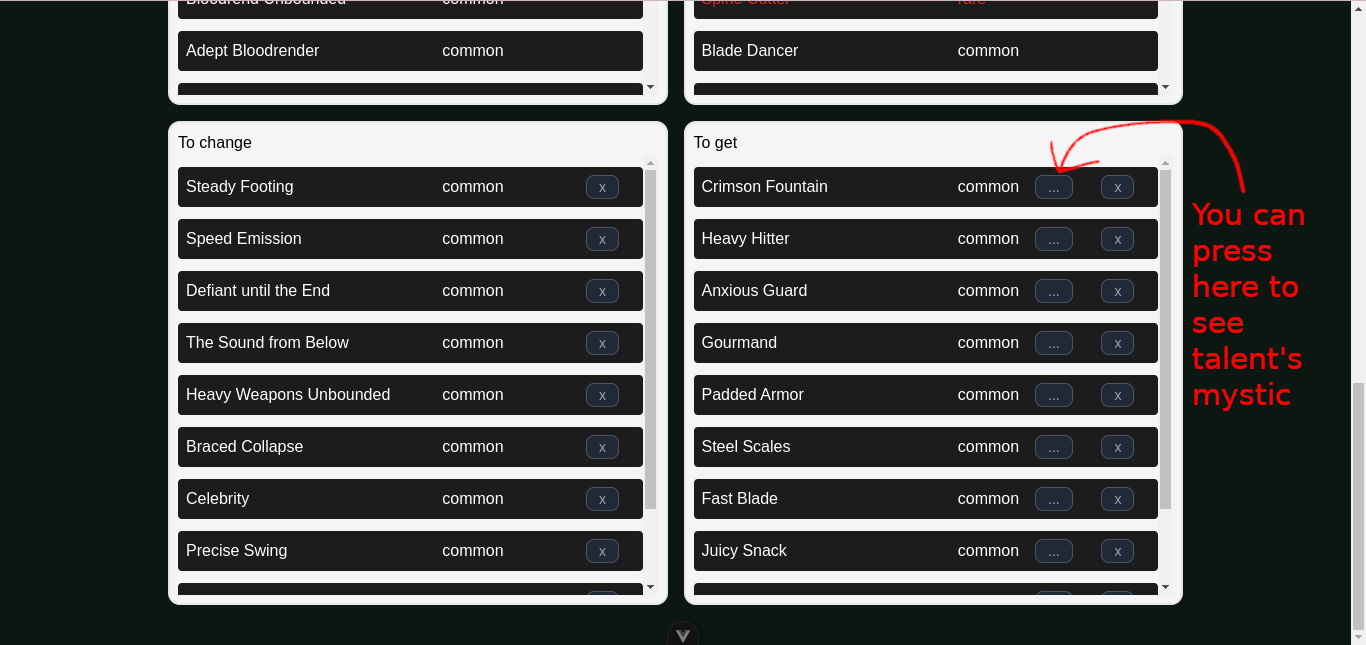
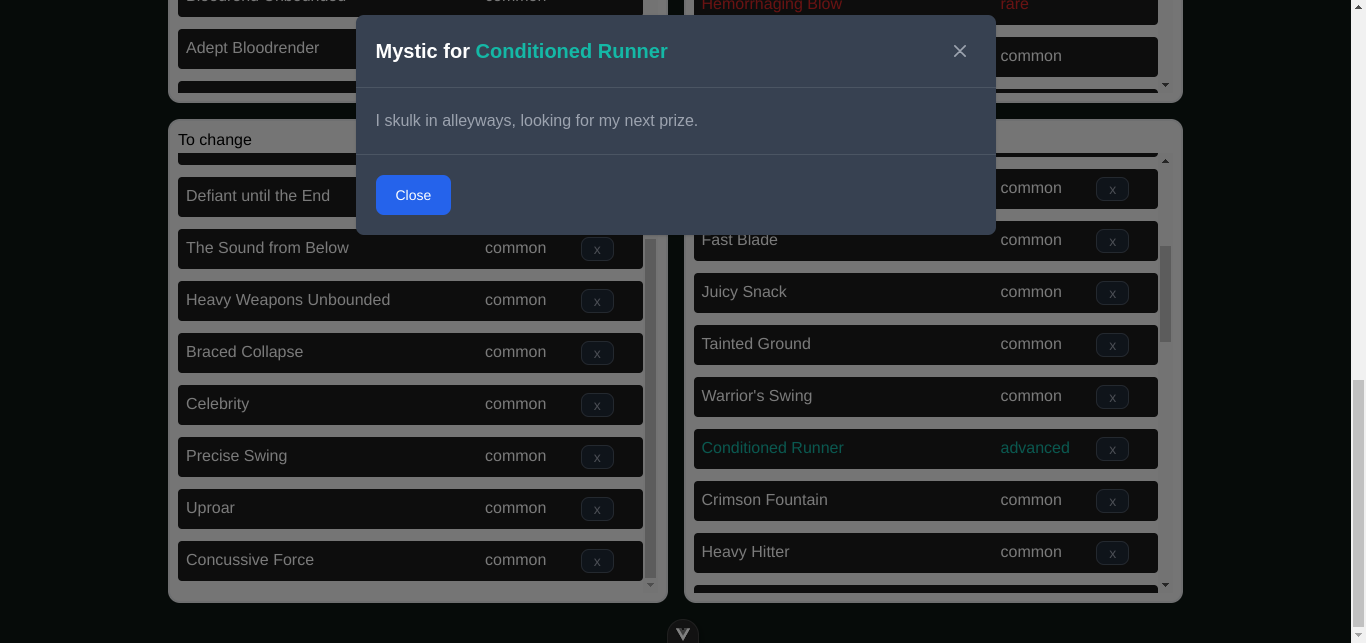
Fixed gui bugs

diff --git a/src/components/TalentCard.vue b/src/components/TalentCard.vue
@@ -35,12 +35,9 @@ const toggleModal = () => {
 </script>
 
 <template>
-  <li class="p-2 rounded bg-[#1c1c1c] my-3 grid grid-cols-7">
-    <span :class="['col-span-4', rarityColor[cardRarity]]">{{ cardTitle }}</span>
+  <li class="p-2 rounded bg-[#1c1c1c] my-3 grid grid-cols-6">
+    <div @click="toggleModal" :class="['col-span-4', 'hover:font-bold', 'cursor-pointer', rarityColor[cardRarity]]">{{ cardTitle }}</div>
     <span :class="['col-span-1', rarityColor[cardRarity]]">{{ cardRarity }}</span>
-    <button @click="toggleModal" v-if="mystic"
-      class="col-span-1 mx-auto px-3 text-sm font-medium text-gray-900 focus:outline-none bg-white rounded-lg border border-gray-200 hover:bg-gray-100 hover:text-blue-700 focus:z-10 focus:ring-4 focus:ring-gray-100 dark:focus:ring-gray-700 dark:bg-gray-800 dark:text-gray-400 dark:border-gray-600 dark:hover:text-white dark:hover:bg-gray-700">...</button>
-    <span v-else class="col-span-1"></span>
     <slot class="col-span-1"></slot>
   </li>
   <Teleport to="#modal">
@@ -52,7 +49,7 @@ const toggleModal = () => {
             <!-- Modal header -->
             <div class="flex items-center justify-between p-4 md:p-5 border-b rounded-t dark:border-gray-600">
                 <h3 class="text-xl font-semibold text-gray-900 dark:text-white">
-                    Mystic
+                    Mystic for <span :class="rarityColor[cardRarity]">{{ cardTitle }}</span>
                 </h3>
                 <button @click="toggleModal" type="button" class="text-gray-400 bg-transparent hover:bg-gray-200 hover:text-gray-900 rounded-lg text-sm w-8 h-8 ms-auto inline-flex justify-center items-center dark:hover:bg-gray-600 dark:hover:text-white" data-modal-hide="static-modal">
                     <svg class="w-3 h-3" aria-hidden="true" xmlns="http://www.w3.org/2000/svg" fill="none" viewBox="0 0 14 14">
@@ -73,6 +70,5 @@ const toggleModal = () => {
         </div>
     </div>
     </div>
-
   </Teleport>
 </template>

diff --git a/src/views/MinMaxView.vue b/src/views/MinMaxView.vue
@@ -51,7 +51,7 @@
 
     }
     catch (err) {
-      toast.info('failed to load data')
+      toast.error('failed to load data')
     }
   })
 

diff --git a/README.md b/README.md
@@ -22,11 +22,16 @@ Your talents from your build and character is shown in the first row <br />
 Your talents you can change and get is shown in the second row <br />
 ![to get and to change talents](src/assets/tut-talents-get-change.png) <br />
 ![remove talent](src/assets/remove_talents.png) <br />
+You can click on a talent's title to view said talent's mystic <br />
+![click talent](src/assets/click_to_mystic.png) <br />
 ![mystic](src/assets/mystic.png) <br />
 
 Enjoy your sastified changing your talents process after beating ethiron(or fight 100 ferrymen or mooneyes stone idk), if you have any problem, contact me via Discord: [zimlewis](http://discordapp.com/users/733486464947454034) <br />
 
 # Update-log
+*1.0.7*: <br />
+ - Fixed some gui bugs
+
 *1.0.6*: <br />
  - Added mystic <br />
  - Changed data structure a bit <br />
